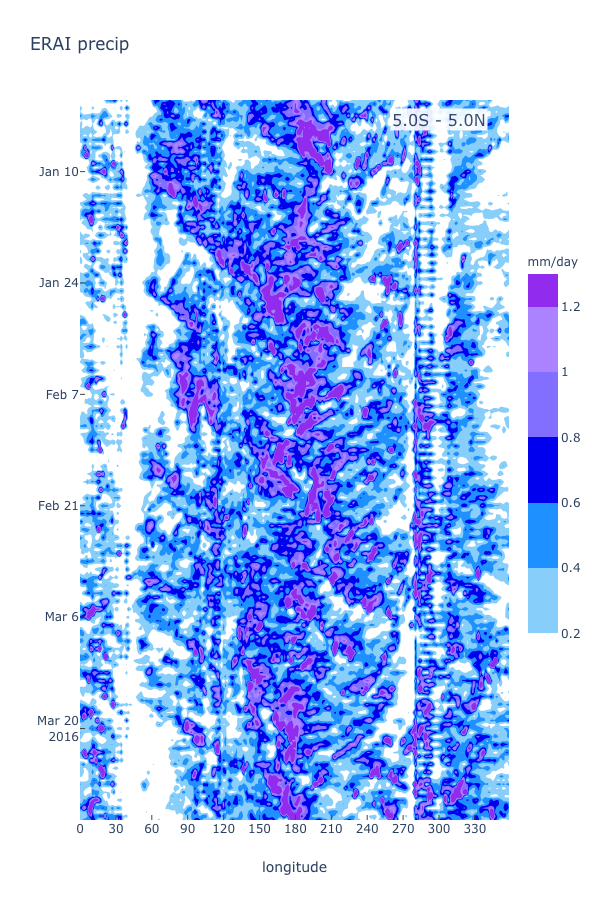
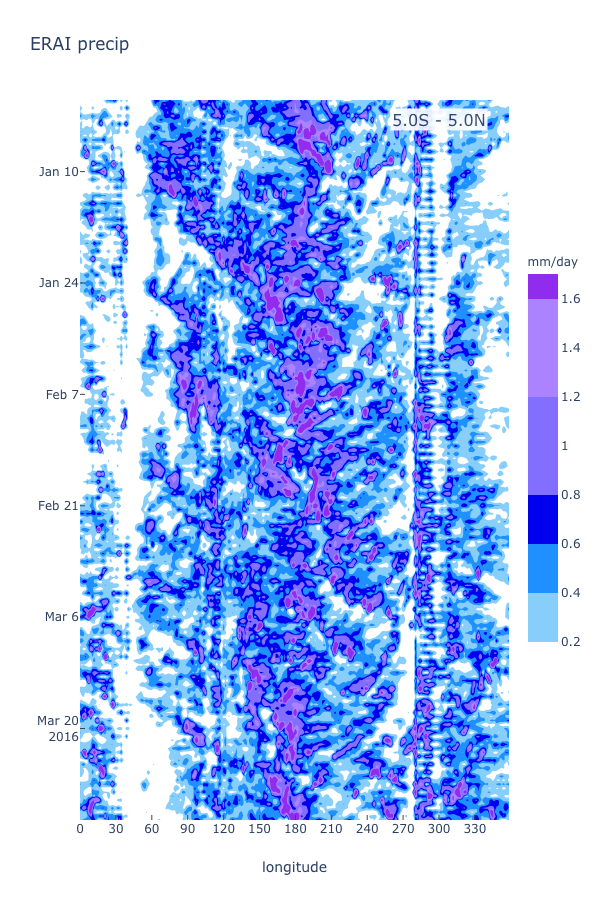
adjusted colorscale for precip plots

diff --git a/diagnostics/hovmoeller_plotly.py b/diagnostics/hovmoeller_plotly.py
@@ -16,13 +16,13 @@ def hov_resources(pltvarname):
     :rtype: color string
     """
     if pltvarname == 'precip':
-        cmap_rgb = [[0, "rgb(255, 255, 255)"], [0.14, "rgb(255, 255, 255)"],
-                    [0.14, "rgb(135, 206, 250)"], [0.28, "rgb(135, 206, 250)"],
-                    [0.28, "rgb(30, 144, 255)"], [0.42, "rgb(30, 144, 255)"],
-                    [0.42, "rgb(0, 0, 238)"], [0.56, "rgb(0, 0, 238)"],
-                    [0.56, "rgb(131, 111, 255)"], [0.71, "rgb(131, 111, 255)"],
-                    [0.71, "rgb(171, 130, 255)"], [0.85, "rgb(171, 130, 255)"],
-                    [0.85, "rgb(145, 44, 238)"], [1, "rgb(145, 44, 238)"]]
+        cmap_rgb = [[0, "rgb(255, 255, 255)"], [0.111111, "rgb(255, 255, 255)"],
+                    [0.111111, "rgb(135, 206, 250)"], [0.222222, "rgb(135, 206, 250)"],
+                    [0.222222, "rgb(30, 144, 255)"], [0.333333, "rgb(30, 144, 255)"],
+                    [0.333333, "rgb(0, 0, 238)"], [0.444444, "rgb(0, 0, 238)"],
+                    [0.444444, "rgb(131, 111, 255)"], [0.666667, "rgb(131, 111, 255)"],
+                    [0.666667, "rgb(171, 130, 255)"], [0.888889, "rgb(171, 130, 255)"],
+                    [0.888889, "rgb(145, 44, 238)"], [1, "rgb(145, 44, 238)"]]
     elif pltvarname == 'uwnd':
         cmap_rgb = [[0.0, "rgb(49,54,149)"],
                     [0.1111111111111111, "rgb(69,117,180)"],
@@ -93,7 +93,7 @@ def get_clevels(pltvarname):
     """
     if pltvarname == "precip":
         cmin = 0.2
-        cmax = 1.2
+        cmax = 1.6
         cspc = 0.2
     elif (pltvarname == 'uwnd') or (pltvarname == 'vwnd'):
         cmin = -21.

diff --git a/examples/test_hovmoeller.py b/examples/test_hovmoeller.py
@@ -8,6 +8,7 @@ local scripts, if loading from a different directory include that with a '.' bet
 directory name and script name
 """
 from tropical_diagnostics.diagnostics.hovmoeller_plotly import hovmoeller
+from tropical_diagnostics.diagnostics.hovmoeller_calc import lat_avg
 
 plotpath = '../plots/'
 
@@ -30,22 +31,15 @@ print("reading data from file:")
 ds = xr.open_dataset('/data/mgehne/ERAI/MetricsObs/precip.erai.sfc.1p5.2x.1979-2016.nc')
 A = ds.precip
 lonA = ds.lon
-print("extracting latitude bands:")
-A = A.sel(lat=slice(latMin, latMax))
-A = A.squeeze()
-latA = ds.lat.sel(lat=slice(latMin, latMax))
 print("extracting time period:")
 A = A.sel(time=slice(datestrt, datelast))
-A = A.squeeze()
 timeA = ds.time.sel(time=slice(datestrt, datelast))
 ds.close()
 
 print("average over latitude band:")
-units = A.attrs['units']
-A = A.mean(dim='lat')
-A.attrs['units'] = units
 A = A * 1000 / 4
 A.attrs['units'] = 'mm/day'
+A = lat_avg(A, latmin=latMin, latmax=latMax)
 
 print("plot hovmoeller diagram:")
 #hovmoeller(A, lonA, timeA, datestrt, datelast, plotpath, latMin, latMax, spd, source, var, lev,
